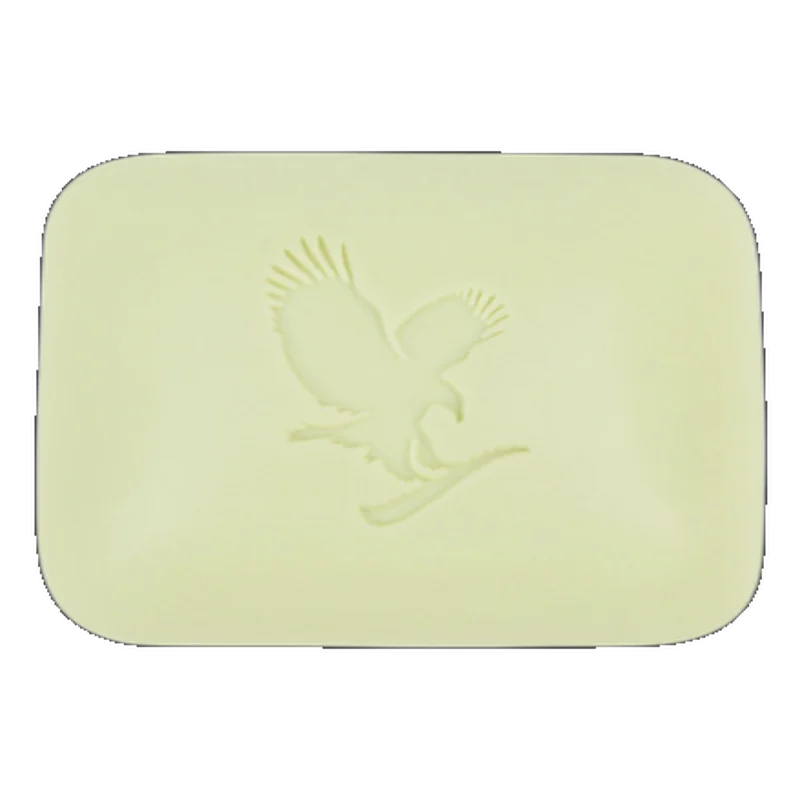
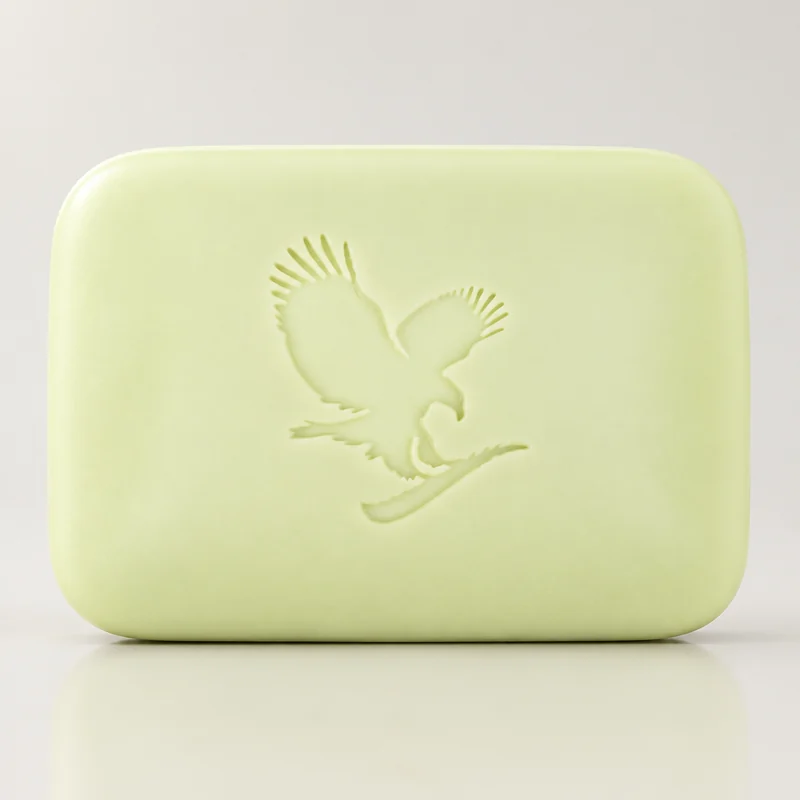
Re-light the 20 flat product cut-outs with generated studio lighting (product art and labels untouched)

diff --git a/README.md b/README.md
@@ -138,6 +138,19 @@ payment directly. Cart contents and the delivery draft are kept in `localStorage
    distributor agreement and local advertising rules before publishing.
 7. **Policies.** Add real delivery, returns and privacy pages, and link them in the footer.
 
+## Product images: photographs and AI-restyled cut-outs
+
+Sixty of the eighty images are photographs lifted from official Forever Living fact sheets
+(provenance in `tools/product-photo-sources.json`). Twenty were flat white cut-outs with no
+shadow or lighting, which read as clip art beside the rest; those were re-lit with generated
+backgrounds and lighting on 2026-11-11 (`tools/ai-restyled.json`).
+
+The rule that keeps this honest: **the product, its packaging artwork and every label word come
+from the official art, never from the model.** The render supplies only the studio sweep, the key
+light and the contact shadow. If a render ever shows label text that differs from the official
+cut-out, discard it: the label is the source of truth. Four pack tiles (Daily Nutrition Pack and
+Start Your Journey 1-3) remain renders, because no photograph of that packaging exists.
+
 ## Deploy
 
 Any static host works. For GitHub Pages: **Settings → Pages → Deploy from a branch →
